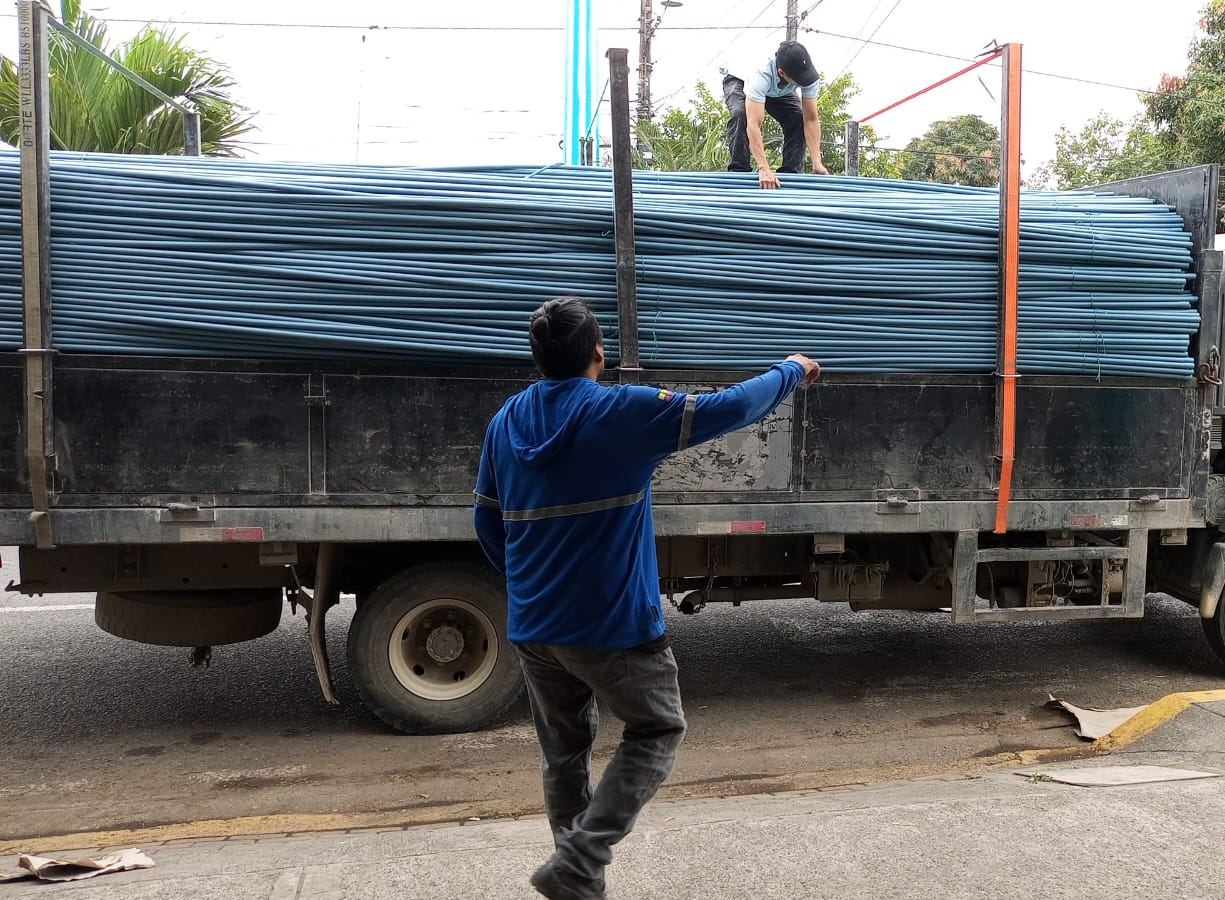
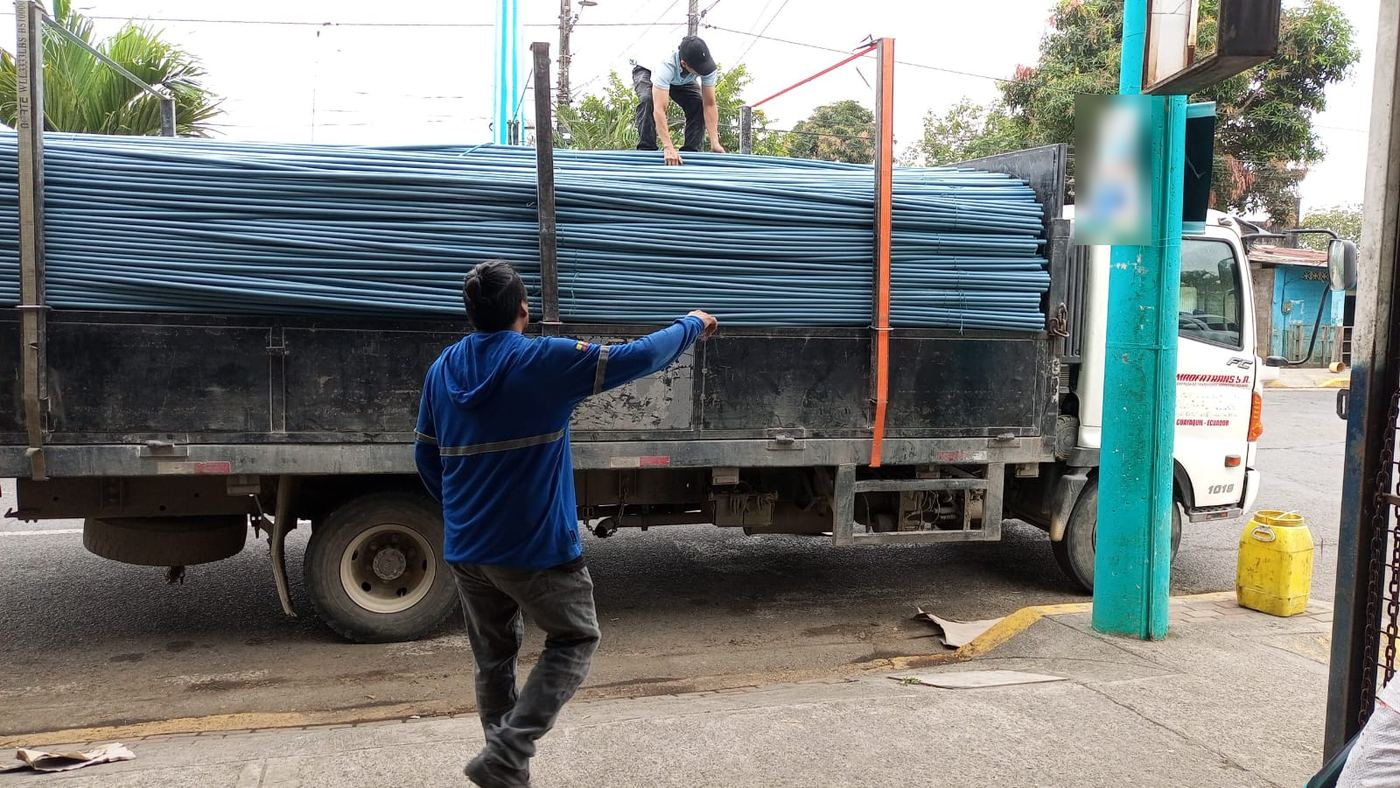
Mostrar completa la foto de descarga de tubería
La foto estaba recortada por la derecha para quitar un afiche de otra
empresa y eso cortaba la cabina. Ahora se usa la foto entera con el
afiche difuminado, y las dos fotos de la galería quedan a la misma
altura en pantallas anchas.

Claude-Session: https://claude.ai/code/session_01KCtsaXUiAfA48oLe571SDk

diff --git a/index.html b/index.html
@@ -254,7 +254,7 @@ p { margin: 0; }
 
 /* Galería */
 .galeria { display: grid; gap: 16px; grid-template-columns: 1fr; }
-@media (min-width: 760px) { .galeria { grid-template-columns: 1fr 1fr; } }
+@media (min-width: 760px) { .galeria { grid-template-columns: 1.777fr 1.344fr; } }
 .galeria figure { margin: 0; display: grid; gap: 8px; min-width: 0; }
 .galeria img { width: 100%; height: auto; border-radius: var(--r); }
 .galeria figcaption { font-size: 0.875rem; color: var(--tinta-suave); }
@@ -498,7 +498,7 @@ input:focus, select:focus, textarea:focus { outline: 2px solid var(--acento); ou
         <p class="intro">Carga bien amarrada, cubierta con lona cuando hace falta y entregada donde la necesita.</p>
       </div>
       <div class="galeria">
-        <figure><img src="img/descarga-tuberia.jpg" alt="Personal de MADFATRANS descargando tubería de PVC en la calle" width="1225" height="900" loading="lazy"><figcaption>Descarga de tubería en el punto de entrega.</figcaption></figure>
+        <figure><img src="img/descarga-tuberia.jpg" alt="Personal de MADFATRANS descargando tubería de PVC en la calle" width="1400" height="788" loading="lazy"><figcaption>Descarga de tubería en el punto de entrega.</figcaption></figure>
         <figure><img src="img/camion-baranda.jpg" alt="Camión de MADFATRANS con la carga cubierta por una lona roja" width="1262" height="939" loading="lazy"><figcaption>Carga cubierta con lona para el viaje.</figcaption></figure>
       </div>
     </div>
